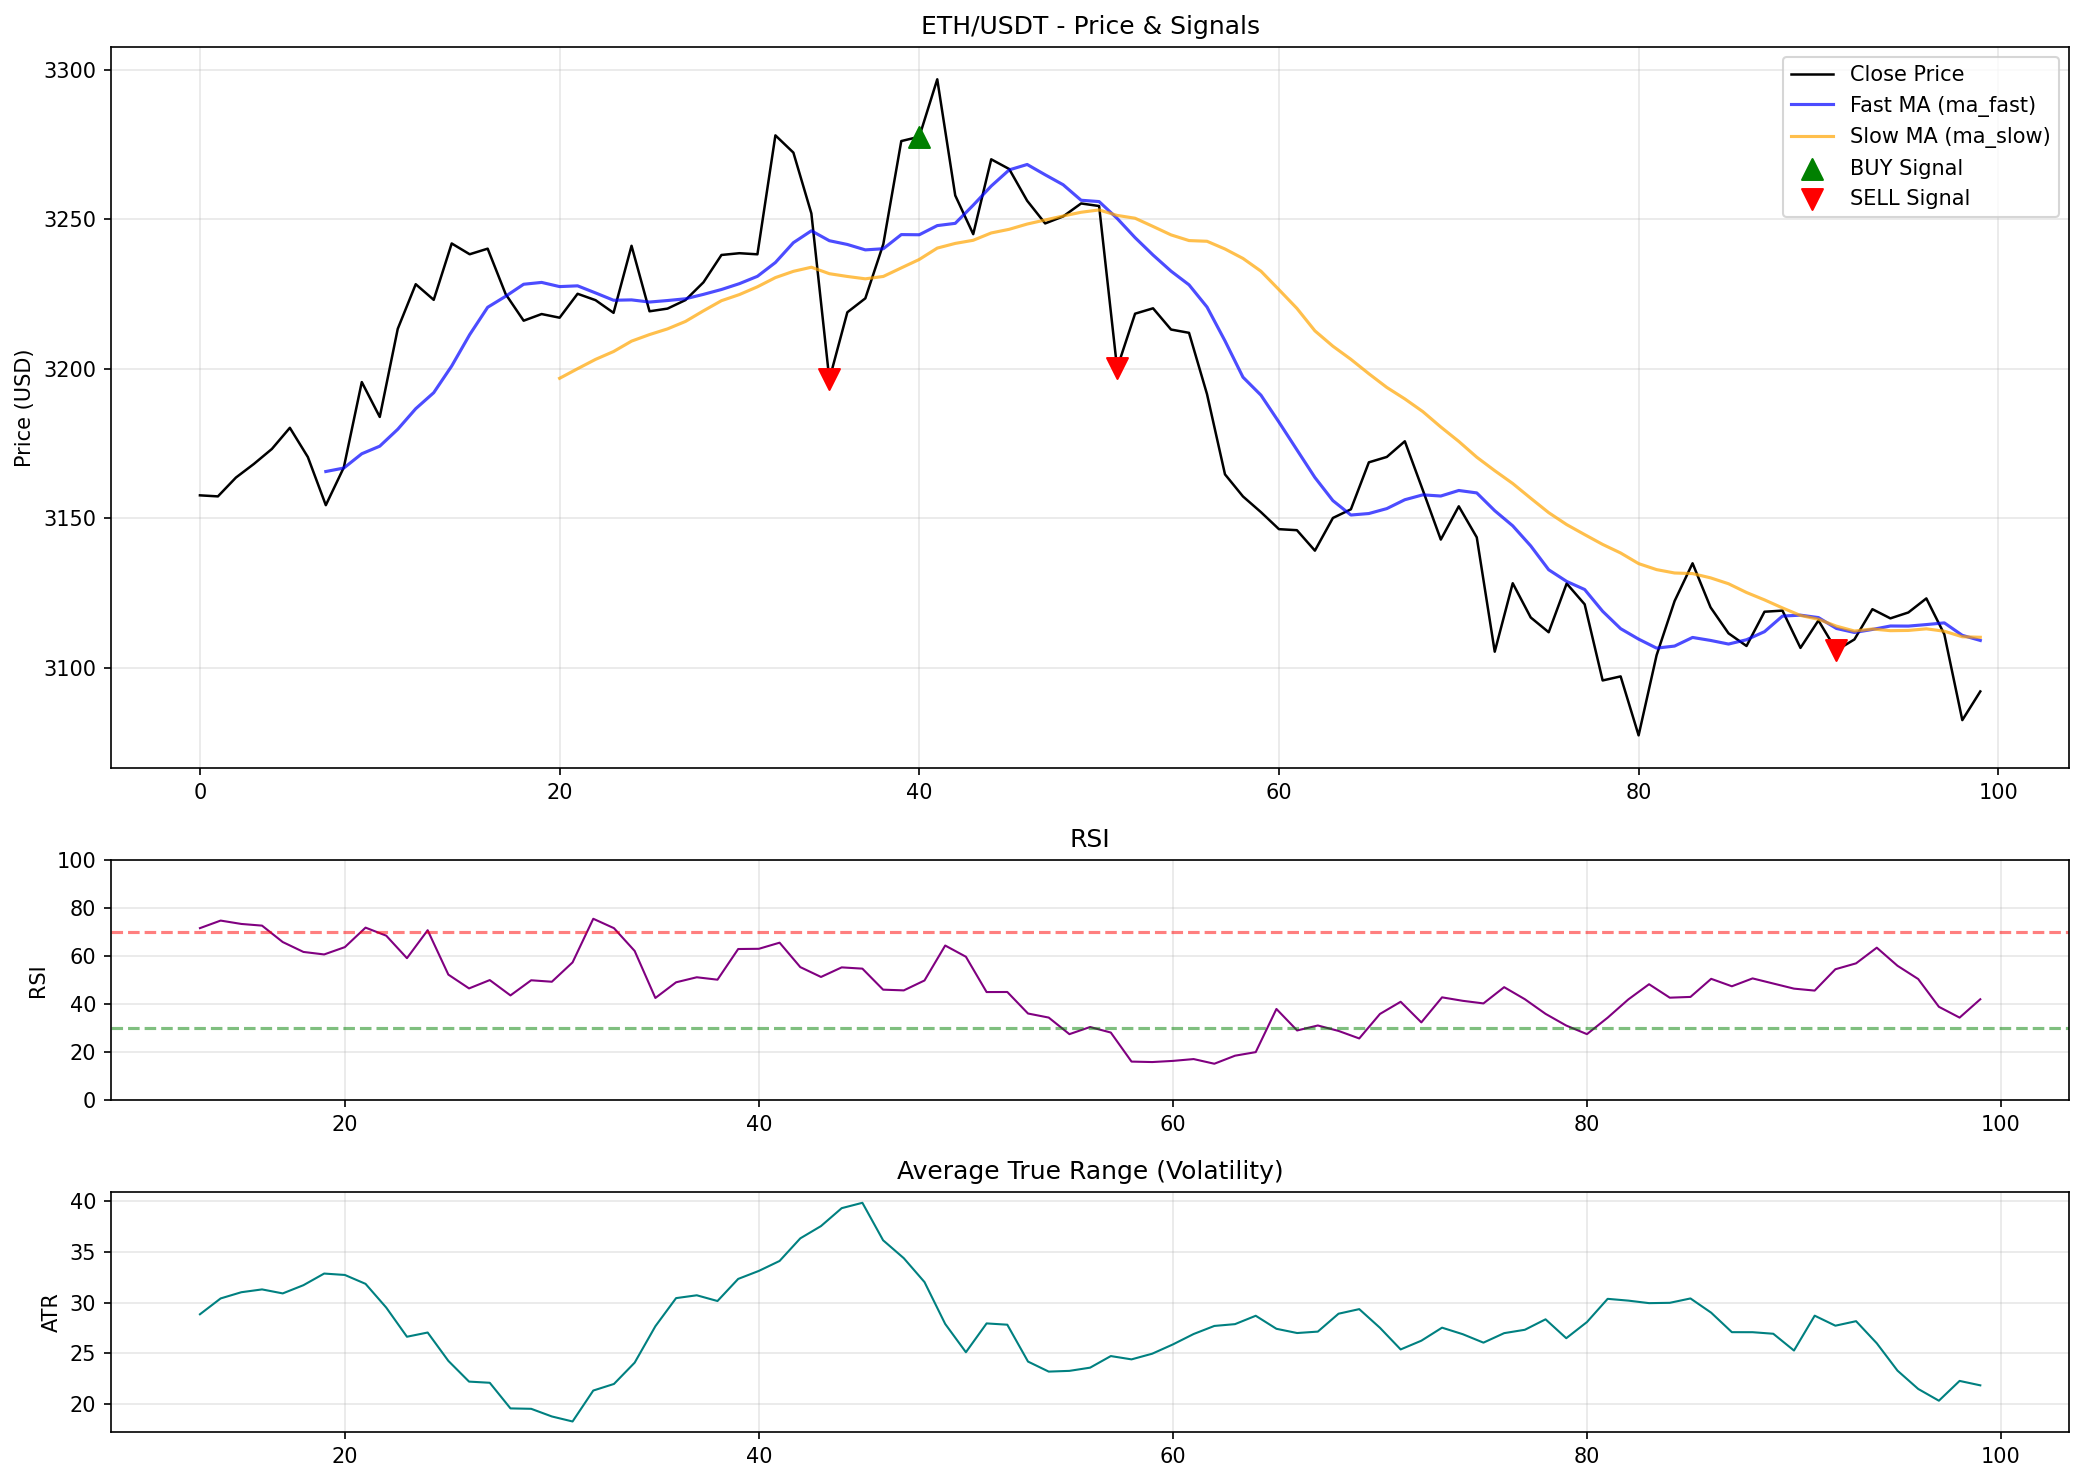
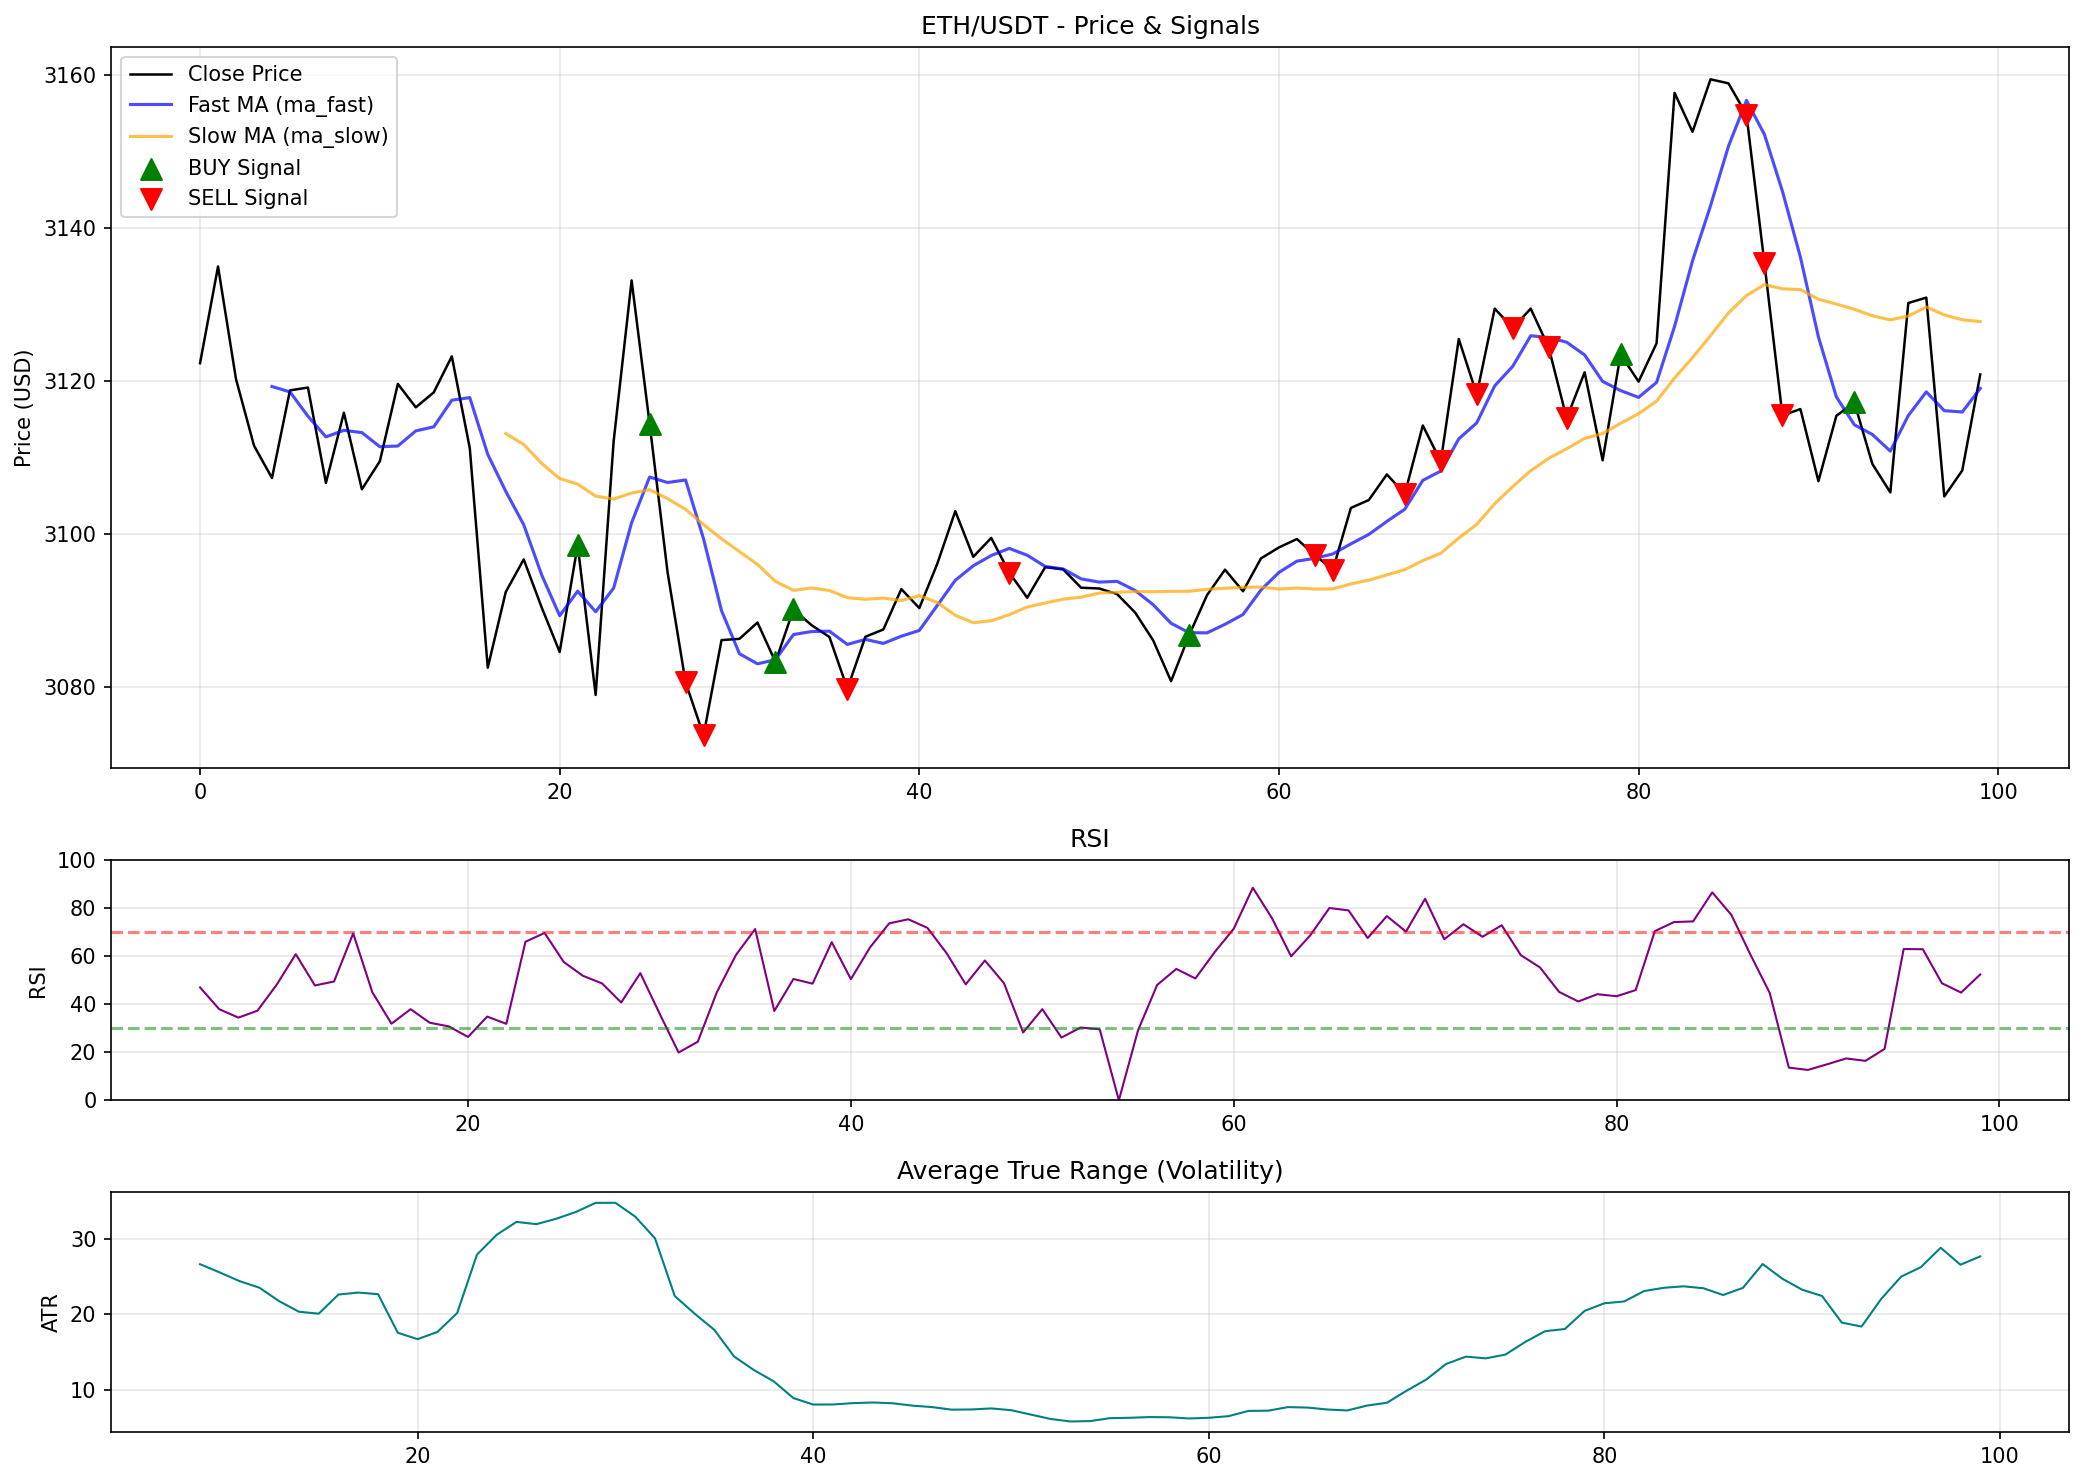
22:01

diff --git a/strategies/enhanced_signals.py b/strategies/enhanced_signals.py
@@ -51,18 +51,18 @@ def enhanced_strategy(df, config=None):
     """
     if config is None:
         config = {
-            "fast_ma": 8,              # Faster: was 10
-            "slow_ma": 21,             # Faster: was 30
-            "rsi_period": 14,
-            "rsi_oversold": 40,        # Relaxed: was 30
-            "rsi_overbought": 60,      # Relaxed: was 70
-            "atr_period": 14,
-            "atr_multiplier_sl": 2.0,
-            "atr_multiplier_tp": 3.0,
-            "atr_multiplier_trailing": 2.5,
-            "min_volume_ratio": 0.8,   # Relaxed: was 1.0
+            "fast_ma": 5,              # Faster: was 10
+            "slow_ma": 18,             # Faster: was 30
+            "rsi_period": 7,
+            "rsi_oversold": 45,        # Relaxed: was 30
+            "rsi_overbought": 55,      # Relaxed: was 70
+            "atr_period": 10,
+            "atr_multiplier_sl": 1.0,
+            "atr_multiplier_tp": 1.5,
+            "atr_multiplier_trailing": 1.0,
+            "min_volume_ratio": 0.5,   # Relaxed: was 1.0
             "use_volume_filter": False, # Disabled for more signals
-            "min_signal_quality": 60   # Relaxed: was 60
+            "min_signal_quality": 20   # Relaxed: was 60
         }
     
     df = df.copy()
